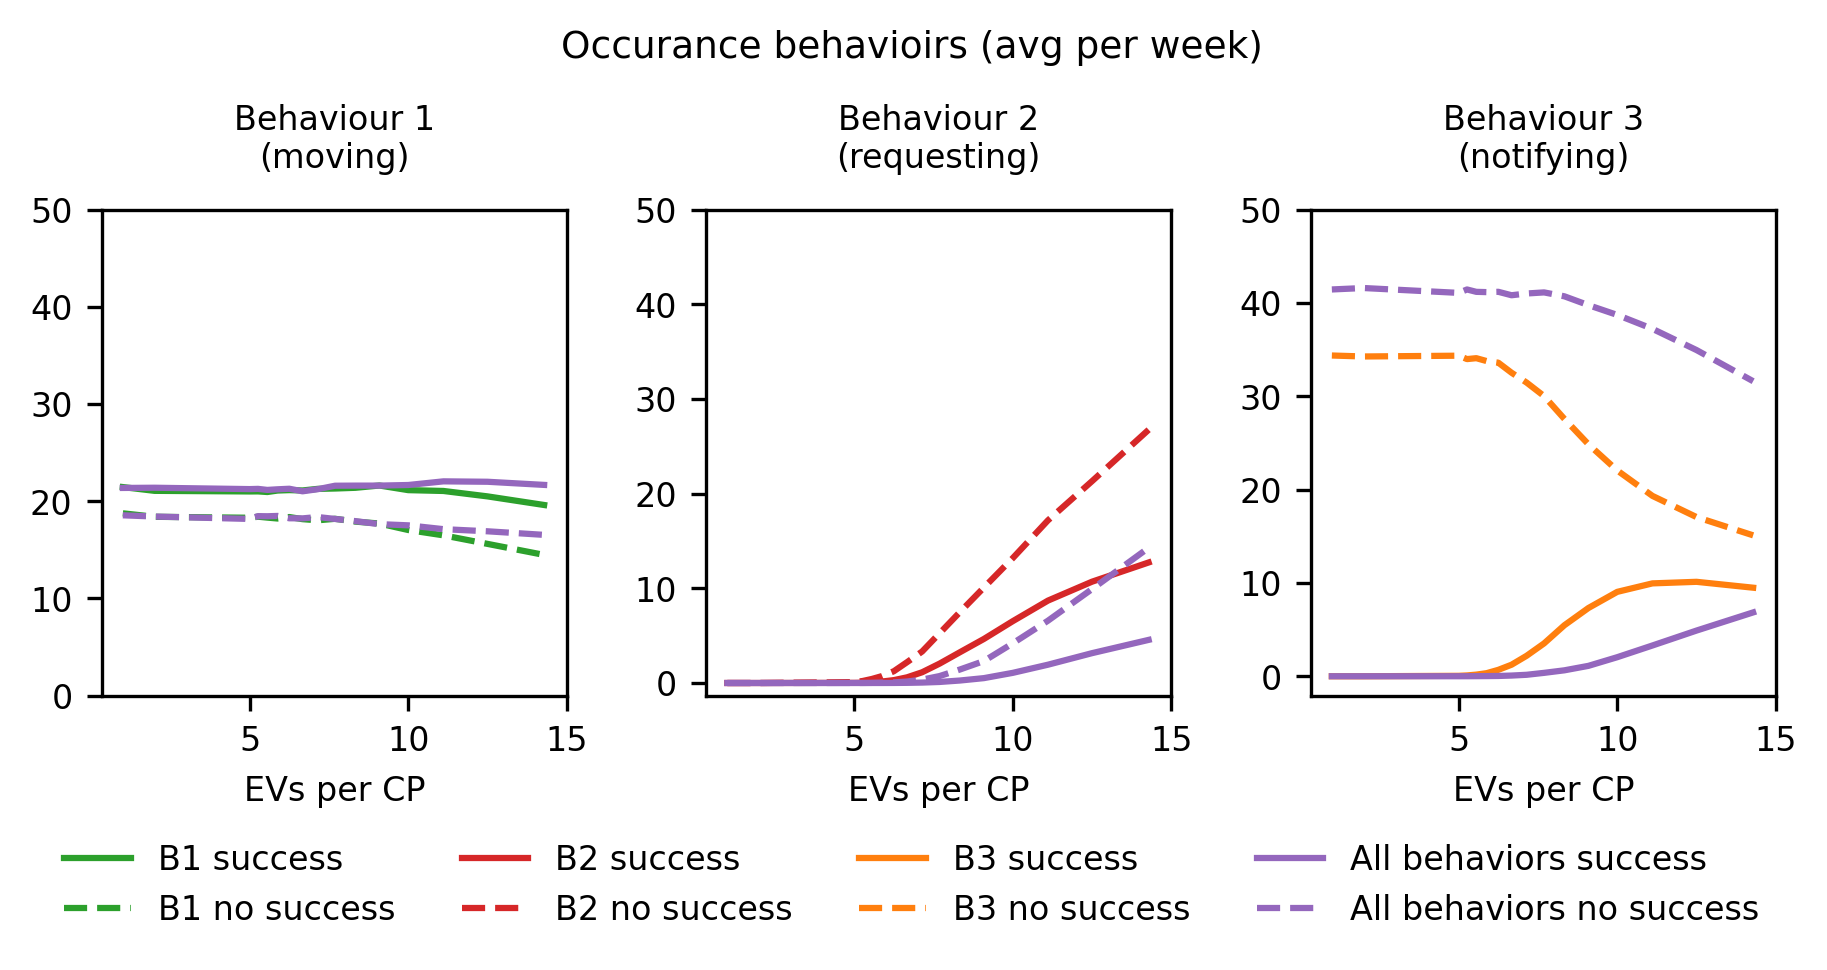
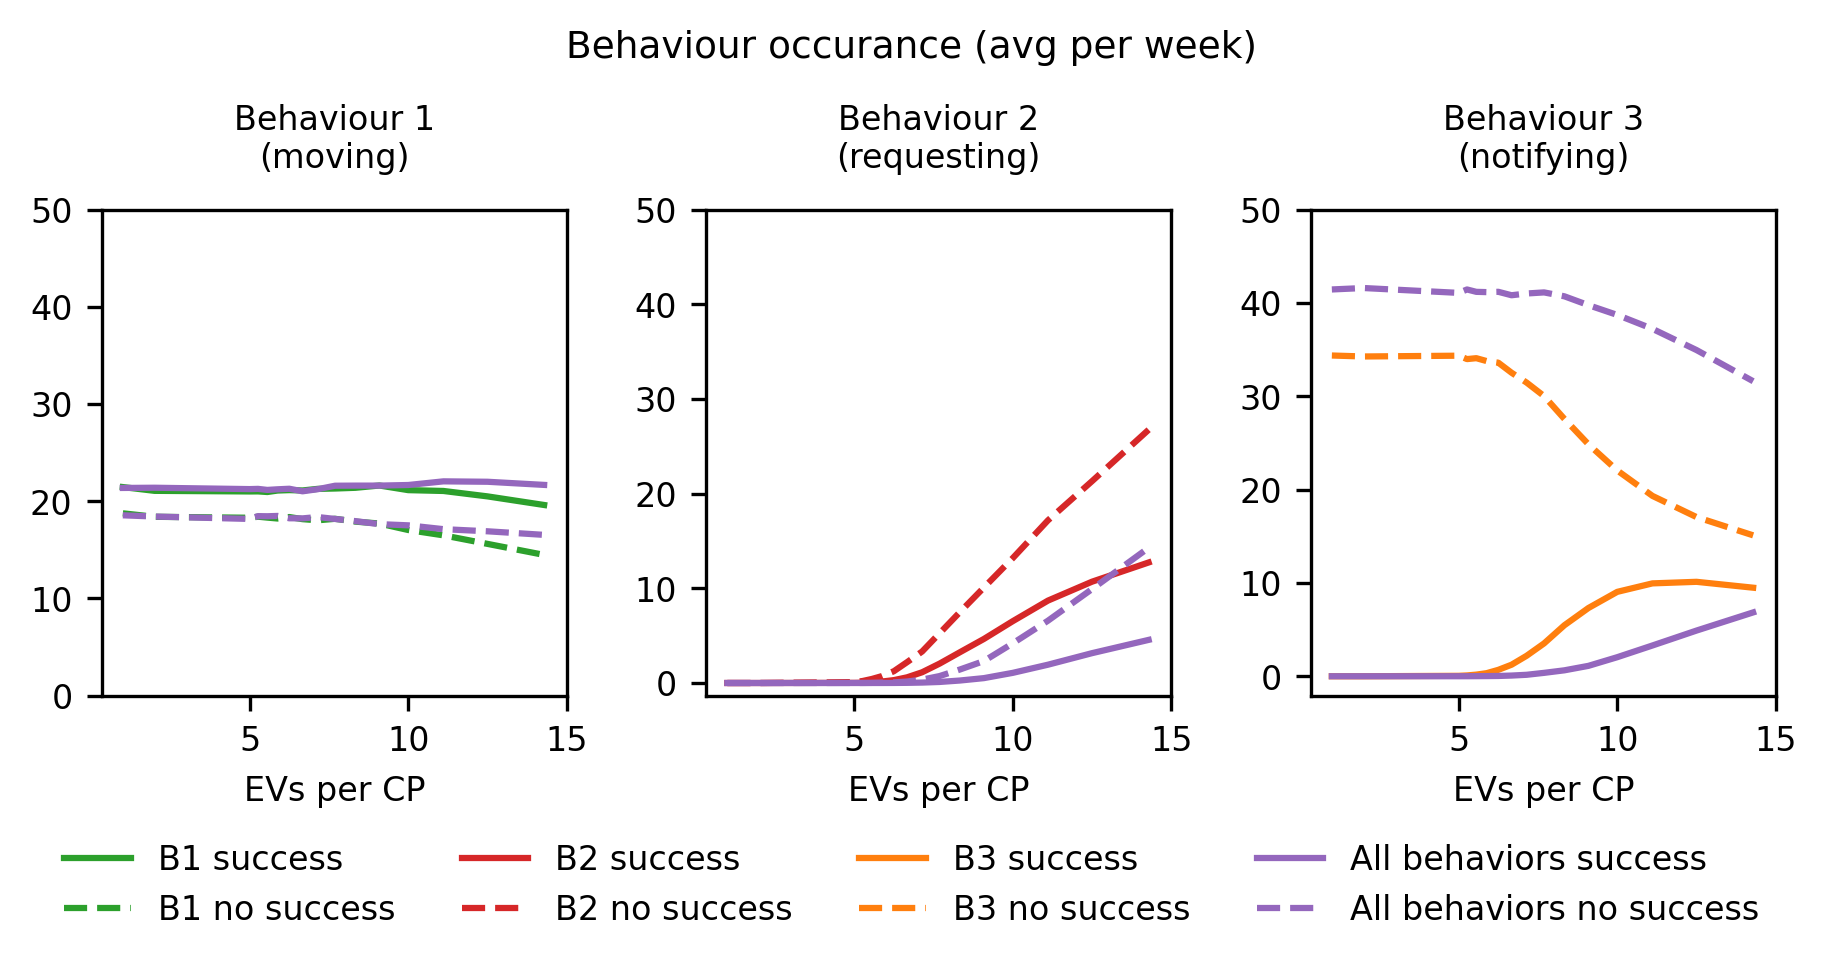
new graphs

Changed region(s): [[0.312, 0.0309, 0.6864, 0.0619]]

diff --git a/Social charging model/script_plot_sensititivity_fan_chart.py b/Social charging model/script_plot_sensititivity_fan_chart.py
@@ -183,7 +183,7 @@ from matplotlib.patches import Patch
 
 fig2, axes2 = plt.subplots(1, 2, figsize=(15.92 / 2.52, (15.92 / 2.52)*(3/7)))
 pairs = [("trips", "No behaviors"), ("kmd", "No behaviors")]
-title_map = {"trips": "Trips\n(avg per car per week)", "kmd": "Kilometers driven\n(avg per car per week)"}
+title_map = {"trips": "Trips\n(avg per car per week)", "kmd": "Kilometres driven\n(avg per car per week)"}
 
 band_alphas = [0.1, 0.1, 0.1]  # same as Fig1
 
@@ -213,7 +213,7 @@ for ax, (metric, scenario) in zip(axes2, pairs):
 # Create legend
 # -------------------
 mean_line = Line2D([], [], color='tab:blue', linestyle='-', linewidth=2, label='Mean')  # color doesn't matter much
-band_patch = Patch(facecolor='tab:blue', alpha=0.1, label='50%, 80% and 90% uncertainty intervals')      # use one of the band colors
+band_patch = Patch(facecolor='tab:blue', alpha=0.1, label='50%, 80%, and 90% uncertainty intervals')      # use one of the band colors
 
 fig2.legend(handles=[mean_line, band_patch], loc='lower center', ncol=2, frameon=False, fontsize=8, bbox_to_anchor=(0.5, -0.12))
 

diff --git a/Social charging model/script_plot_metrics_EVsPerCP.py b/Social charging model/script_plot_metrics_EVsPerCP.py
@@ -23,7 +23,7 @@ metrics = [
 
 # --- Create subplots ---
 width = 15.92 / 2.52 # width word cm to inch
-height = width * (3,7)  # maintain aspect ratio
+height = width * (3/7)  # maintain aspect ratio
 fig, axes = plt.subplots(1, 3, figsize=(width, height))
 
 for idx, sel in enumerate(subselection):
@@ -87,7 +87,7 @@ fig.legend(
 )
 
 # Layout
-fig.suptitle("Learning in average behavioural characteristics\n in the 'all behaviours' scenario", fontsize=9)
+fig.suptitle("Learning in average behavioural characteristics\n in the all-behaviours scenario", fontsize=9)
 fig.subplots_adjust(bottom=0.24, top=0.76, wspace=0.3)
 
 # Save and show

diff --git a/Social charging model/script_plot_behaviour_occurance.py b/Social charging model/script_plot_behaviour_occurance.py
@@ -240,7 +240,7 @@ if handles:
                bbox_to_anchor=(0.5, -0.05),  # put it below the plots
                fontsize=8)
 
-fig.suptitle("Occurance behavioirs (avg per week)", fontsize=9)
+fig.suptitle("Behaviour occurance (avg per week)", fontsize=9)
 fig.subplots_adjust(bottom=0.24, top=0.78, wspace=0.3)
 
 # --- Save with tight bounding box ---
